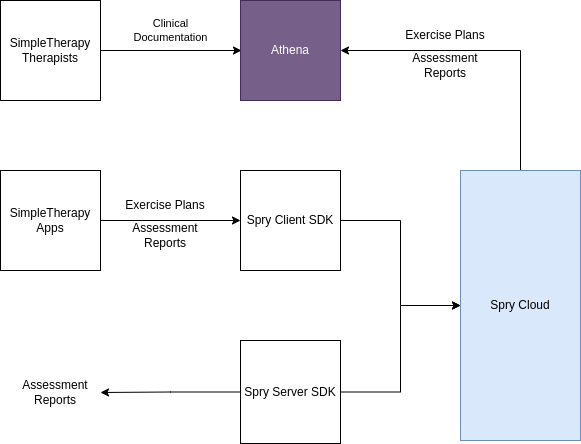
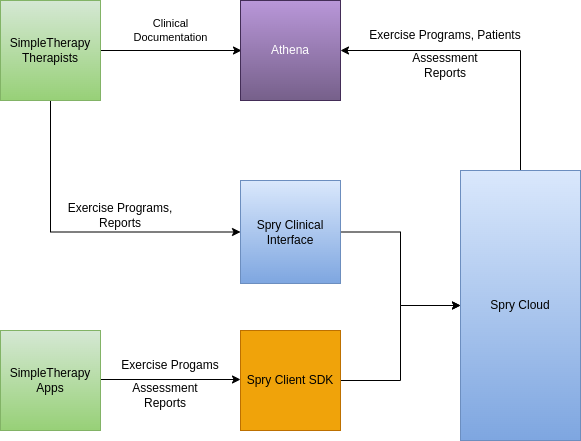
Updated the daigrams

diff --git a/docs/getting_started.md b/docs/getting_started.md
@@ -11,40 +11,19 @@ The following daigram shows the major components involved in the system.
 
 Spry Client SDK takes care of the 
 
- + Creating personalized assessment programs for patients
  + Fetching patient details from Spry Interoperable Bridge(supports AthenaHealth) using CareQuality Framework
  + Real-time patient monitoring for patients
 
 
-## Spry Server SDK 
+## Spry Clinical Interface
 
-Server SDK is used for 
-
- + Generating Authentication tokens for client SDK to use
- + Accesssing assessment reports of patients
+Using the Spry Clinical Interface, a user i.e. therapist can create customized exercise programs for the patient.
+<p>
+It also facilitates access to assessment reports from patients.
+</p>
 
 ## Spry Cloud
 
 Spry Cloud provides APIs for creating customized assessment programs and real-time patient monitoring using cutting-edge machine learning algorithms. 
 
 Spry Cloud uses its proprietary interoperable EHR bridge to fetch and send patient data with other EHRs. Currently supported EHRs include Athena, EPIC, and Cerner.  
-
-
-
-
-
-
-
-![](assets/flow.png)
-
-This documentation describes how to integrate your Spry RTM SDK to build engaging computer vision assessment apps. 
-
- + Spry Prescription SDK for Javascript
- + Spry Mobile SDKs for RTM
- + SPry RTM APIs for report dashboarding and Adherence tracking
-
-Code and samples for the Spry SDKs will be available on GitHub. When you use the Spry SDKs, follow the Spry RTM Terms of Use and Privacy Policy.
-
-# App Store Connect Requirements
-
-To provide functionality within the Spry iOS SDK, we may receive and process certain contact, location, identifier, and device information associated with assessment users and their use of your application. The information we receive depends on what SDK features third party applications use. 
